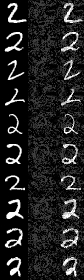
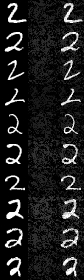
Refactor code

diff --git a/adversary.py b/adversary.py
@@ -4,8 +4,10 @@ from tensorflow.examples.tutorials.mnist import input_data
 import numpy as np
 from scipy.misc import imsave
 
-e = 0.01
-num_steps = 25
+EPSILON = 0.01
+SAMPLE_SIZE = 10
+META_GRAPH = './model/deepnn.meta'
+CKPT = './model'
 
 # write_jpeg Source: https://stackoverflow.com/a/40322153/4989649
 def write_jpeg(data, filepath):
@@ -28,7 +30,7 @@ def get_data(true_label,data_dir):
 	y_test = mnist.test.labels
 
 	indexes = (y_test==true_label)
-	x_test_sample = np.reshape(x_test[indexes][0:10],(10,784))
+	x_test_sample = np.reshape(x_test[indexes][0:SAMPLE_SIZE],(SAMPLE_SIZE,784))
 	return x_test_sample
 
 if __name__ == '__main__':
@@ -44,38 +46,36 @@ if __name__ == '__main__':
 	#Convert args to dictionary
 	arguments = args.__dict__
 
-	#Restore the model
-	sess = tf.Session()
-	saver = tf.train.import_meta_graph('./model/deepnn.meta')
-	saver.restore(sess,tf.train.latest_checkpoint('./model/'))
-	graph = tf.get_default_graph()	
-
 	x_feed = get_data(arguments['input_class'],arguments['data_dir'])
 
-	accuracy = []
 	x_adversarial = []
+
 	with tf.Session() as sess:
 		sess.run(tf.global_variables_initializer())
 		sess.run(tf.local_variables_initializer())
 		graph = tf.get_default_graph()
 
 		#Restore the model
-		saver = tf.train.import_meta_graph('./model/deepnn.meta')
-		saver.restore(sess, tf.train.latest_checkpoint('./model/'))	
+		saver = tf.train.import_meta_graph(META_GRAPH)
+		saver.restore(sess, tf.train.latest_checkpoint(CKPT))	
 
-		#Restore placeholders
+		#Restore placeholders and tensors
 		x = graph.get_tensor_by_name('x:0')
 		y = graph.get_tensor_by_name('y_:0')
 		keep_prob = graph.get_tensor_by_name('dropout/keep_prob:0')
 		cse_loss = graph.get_tensor_by_name('cross-entropy:0')		
+		acc = graph.get_tensor_by_name('acc:0')
 
-		for j in range(x_feed.shape[0]):
+		for j in range(SAMPLE_SIZE):
 			print "Creating adversarial image for image {}".format(j)
-			for i in range(num_steps):
+			feed_dict = {x:np.reshape(x_feed[j],(1,784)),y:np.reshape(arguments['target_class'],(1,)),keep_prob:1.0}
+
+			i=0
+			#Run the loop till the prediction is the target class
+			while sess.run(acc,feed_dict={x:np.reshape(x_feed[j],(1,784)),y:np.reshape(arguments['target_class'],(1,)),keep_prob:1.0})!=1.0:
 				print "\tStep: {}".format(i)
 
-				# Perapare the dictionary and get the gradients from J_{\theta}(x,y_target)
-				feed_dict = {x:np.reshape(x_feed[j],(1,784)),y:np.reshape(arguments['target_class'],(1,)),keep_prob:1.0}
+				#Get the gradients from J_{\theta}(x,y_target)
 				cse=sess.run(cse_loss,feed_dict=feed_dict)
 				grads = tf.gradients(cse_loss, x, grad_ys=None, name='gradients', colocate_gradients_with_ops=False, gate_gradients=False, aggregation_method=None)	
 				grads_ = sess.run(grads,feed_dict=feed_dict)
@@ -83,19 +83,16 @@ if __name__ == '__main__':
 				#Reshape gradients to match the input shape and update the image
 				grads_ = np.asarray(grads_)
 				grads_ = np.reshape(grads_,(1,784))
-				x_feed[j] = x_feed[j]-(e*(np.sign(grads_)))		
+				x_feed[j] = x_feed[j]-(EPSILON*(np.sign(grads_)))		
 				x_feed[j] = np.clip(x_feed[j], 0, 1.)
 
-			#Calculate accuracy w.r.t target class as a check post-perturbations	
-			acc = graph.get_tensor_by_name('acc:0')
-			accuracy.append(sess.run(acc,feed_dict={x:np.reshape(x_feed[j],(1,784)),y:np.reshape(arguments['target_class'],(1,)),keep_prob:1.0}))
-			x_adversarial.append(x_feed[j])
+				i+=1
 
-	for i in accuracy:
-		print i
+			x_adversarial.append(x_feed[j])
 
 	output=[]
 	x_original = get_data(arguments['input_class'],arguments['data_dir'])
+
 	for i in range(x_original.shape[0]):
 
 		adversarial = np.array(x_feed[i]).reshape(28, 28, 1)
@@ -108,6 +105,7 @@ if __name__ == '__main__':
 		out = np.array(out).reshape(28, 84, 1)
 		out = np.multiply(out,255)
 		output.append(out)
+
 	#10 rows as sample size	
-	out = np.array(output).reshape(28*10,84,1)
+	out = np.array(output).reshape(28*SAMPLE_SIZE,84,1)
 	write_jpeg(out, 'image.jpg')	
